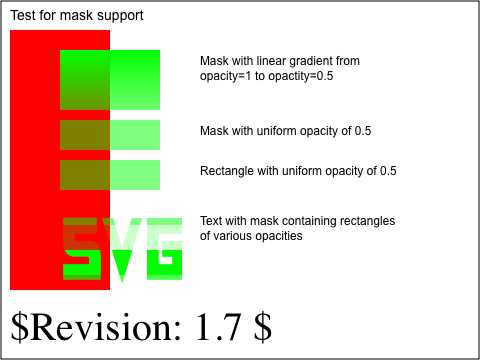
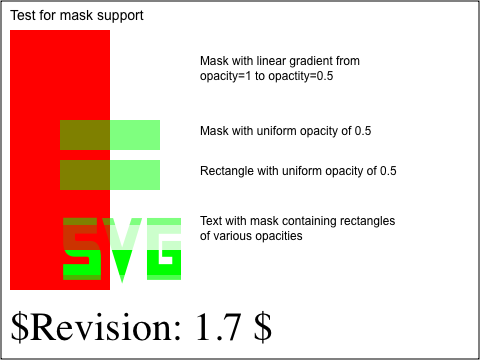
[LBSE] Take transforms into account on mask/clip content https://bugs.webkit.org/show_bug.cgi?id=267075
Reviewed by Nikolas Zimmermann.

Take transforms into account on mask/clip content by adding logic to calculateClipContentRepaintRect
and calculateMaskContentRepaintRect, which is used by LBSE only.

Fix another clip problem related to transforms since for <use> computeClipPath did not take
the transform on the referenced element into account.

Also, clipper uses masks once it is determined masks are needed, and does not switch to clips for referenced clipPaths.

Finally, when resource bounding box for masks is fully outside of the object bounding box )no intersection), use
object bounding box rect as fallback.

* LayoutTests/platform/ios/svg/repaint/clip-path-object-bounding-box-transformed-expected.txt: Added.
* LayoutTests/platform/ios/svg/repaint/mask-object-bounding-box-transformed-expected.txt: Added.
* LayoutTests/platform/mac-sonoma-wk2-lbse-text/TestExpectations:
* LayoutTests/platform/mac-sonoma-wk2-pixel/svg/W3C-SVG-1.1/masking-mask-01-b-expected.png:
* LayoutTests/platform/mac-sonoma-wk2-pixel/svg/W3C-SVG-1.1/masking-path-01-b-expected.png:
* LayoutTests/svg/repaint/clip-path-object-bounding-box-transformed-expected.txt:
* LayoutTests/svg/repaint/clip-path-user-space-on-use-transformed-expected.txt:
* LayoutTests/svg/repaint/mask-object-bounding-box-transformed-expected.txt:
* LayoutTests/svg/repaint/mask-user-space-on-use-transformed-expected.txt:
* Source/WebCore/rendering/svg/RenderSVGModelObject.cpp:
(WebCore::RenderSVGModelObject::computeClipPath const):
[…]

Changed region(s): [[0.125, 0.1222, 0.3438, 0.3056]]

diff --git a/Source/WebCore/svg/SVGClipPathElement.cpp b/Source/WebCore/svg/SVGClipPathElement.cpp
@@ -26,11 +26,13 @@
 #include "Document.h"
 #include "ImageBuffer.h"
 #include "LegacyRenderSVGResourceClipper.h"
+#include "RenderElementInlines.h"
 #include "RenderSVGResourceClipper.h"
 #include "RenderSVGText.h"
 #include "RenderStyleInlines.h"
 #include "SVGElementInlines.h"
 #include "SVGElementTypeHelpers.h"
+#include "SVGLayerTransformComputation.h"
 #include "SVGNames.h"
 #include "SVGUseElement.h"
 #include "StyleResolver.h"
@@ -150,6 +152,20 @@ SVGGraphicsElement* SVGClipPathElement::shouldApplyPathClipping() const
 
 FloatRect SVGClipPathElement::calculateClipContentRepaintRect(RepaintRectCalculation repaintRectCalculation)
 {
+    auto transformationMatrixFromChild = [&](const RenderLayerModelObject& child) -> std::optional<AffineTransform> {
+        if (!document().settings().layerBasedSVGEngineEnabled())
+            return std::nullopt;
+
+        if (!child.isTransformed() || !child.hasLayer())
+            return std::nullopt;
+
+        ASSERT(child.isSVGLayerAwareRenderer());
+        ASSERT(!child.isRenderSVGRoot());
+
+        auto transform = SVGLayerTransformComputation(child).computeAccumulatedTransform(downcast<RenderLayerModelObject>(renderer()), TransformState::TrackSVGCTMMatrix);
+        return transform.isIdentity() ? std::nullopt : std::make_optional(WTFMove(transform));
+    };
+
     FloatRect clipContentRepaintRect;
     // This is a rough heuristic to appraise the clip size and doesn't consider clip on clip.
     for (auto* childNode = firstChild(); childNode; childNode = childNode->nextSibling()) {
@@ -161,7 +177,12 @@ FloatRect SVGClipPathElement::calculateClipContentRepaintRect(RepaintRectCalcula
         auto& style = renderer->style();
         if (style.display() == DisplayType::None || style.visibility() != Visibility::Visible)
             continue;
-        clipContentRepaintRect.unite(renderer->repaintRectInLocalCoordinates(repaintRectCalculation));
+        auto r = renderer->repaintRectInLocalCoordinates(repaintRectCalculation);
+#if ENABLE(LAYER_BASED_SVG_ENGINE)
+        if (auto transform = transformationMatrixFromChild(downcast<RenderLayerModelObject>(*renderer)))
+            r = transform->mapRect(r);
+#endif
+        clipContentRepaintRect.unite(r);
     }
     return clipContentRepaintRect;
 }

diff --git a/Source/WebCore/svg/SVGMaskElement.cpp b/Source/WebCore/svg/SVGMaskElement.cpp
@@ -28,8 +28,10 @@
 
 #include "LegacyRenderSVGResourceMaskerInlines.h"
 #include "NodeName.h"
+#include "RenderElementInlines.h"
 #include "RenderSVGResourceMasker.h"
 #include "SVGElementInlines.h"
+#include "SVGLayerTransformComputation.h"
 #include "SVGNames.h"
 #include "SVGRenderSupport.h"
 #include "SVGStringList.h"
@@ -140,6 +142,19 @@ RenderPtr<RenderElement> SVGMaskElement::createElementRenderer(RenderStyle&& sty
 
 FloatRect SVGMaskElement::calculateMaskContentRepaintRect(RepaintRectCalculation repaintRectCalculation)
 {
+    auto transformationMatrixFromChild = [&](const RenderLayerModelObject& child) -> std::optional<AffineTransform> {
+        if (!document().settings().layerBasedSVGEngineEnabled())
+            return std::nullopt;
+
+        if (!child.isTransformed() || !child.hasLayer())
+            return std::nullopt;
+
+        ASSERT(child.isSVGLayerAwareRenderer());
+        ASSERT(!child.isRenderSVGRoot());
+
+        auto transform = SVGLayerTransformComputation(child).computeAccumulatedTransform(downcast<RenderLayerModelObject>(renderer()), TransformState::TrackSVGCTMMatrix);
+        return transform.isIdentity() ? std::nullopt : std::make_optional(WTFMove(transform));
+    };
     FloatRect maskRepaintRect;
     for (auto* childNode = firstChild(); childNode; childNode = childNode->nextSibling()) {
         auto* renderer = childNode->renderer();
@@ -148,7 +163,12 @@ FloatRect SVGMaskElement::calculateMaskContentRepaintRect(RepaintRectCalculation
         const auto& style = renderer->style();
         if (style.display() == DisplayType::None || style.visibility() != Visibility::Visible)
             continue;
-        maskRepaintRect.unite(renderer->repaintRectInLocalCoordinates(repaintRectCalculation));
+        auto r = renderer->repaintRectInLocalCoordinates(repaintRectCalculation);
+#if ENABLE(LAYER_BASED_SVG_ENGINE)
+        if (auto transform = transformationMatrixFromChild(downcast<RenderLayerModelObject>(*renderer)))
+            r = transform->mapRect(r);
+#endif
+        maskRepaintRect.unite(r);
     }
     return maskRepaintRect;
 }

diff --git a/Source/WebCore/rendering/RenderLayer.cpp b/Source/WebCore/rendering/RenderLayer.cpp
@@ -2841,7 +2841,7 @@ void RenderLayer::paintSVGResourceLayer(GraphicsContext& context, GraphicsContex
     auto* rootPaintingLayer = enclosingSVGRootLayer();
     ASSERT(rootPaintingLayer);
 
-    LayerPaintingInfo paintingInfo(rootPaintingLayer, localPaintDirtyRect, PaintBehavior::Normal, LayoutSize(), 0);
+    LayerPaintingInfo paintingInfo(rootPaintingLayer, localPaintDirtyRect, PaintBehavior::Normal, LayoutSize());
     paintingInfo.clipToDirtyRect = false;
 
     OptionSet<PaintLayerFlag> flags { PaintLayerFlag::TemporaryClipRects };
@@ -3490,7 +3490,8 @@ void RenderLayer::paintLayerByApplyingTransform(GraphicsContext& context, const 
     // Now do a paint with the root layer shifted to be us.
     LayerPaintingInfo transformedPaintingInfo(paintingInfo);
     transformedPaintingInfo.rootLayer = this;
-    transformedPaintingInfo.paintDirtyRect = LayoutRect(encloseRectToDevicePixels(valueOrDefault(transform.inverse()).mapRect(paintingInfo.paintDirtyRect), deviceScaleFactor));
+    if (!transformedPaintingInfo.paintDirtyRect.isInfinite())
+        transformedPaintingInfo.paintDirtyRect = LayoutRect(encloseRectToDevicePixels(valueOrDefault(transform.inverse()).mapRect(paintingInfo.paintDirtyRect), deviceScaleFactor));
     transformedPaintingInfo.subpixelOffset = adjustedSubpixelOffset;
     paintLayerContentsAndReflection(context, transformedPaintingInfo, paintFlags);
 

diff --git a/Source/WebCore/rendering/svg/RenderSVGResourceClipper.cpp b/Source/WebCore/rendering/svg/RenderSVGResourceClipper.cpp
@@ -66,11 +66,6 @@ RenderSVGResourceClipper::RenderSVGResourceClipper(SVGClipPathElement& element, 
 
 RenderSVGResourceClipper::~RenderSVGResourceClipper() = default;
 
-SVGGraphicsElement* RenderSVGResourceClipper::shouldApplyPathClipping() const
-{
-    return clipPathElement().shouldApplyPathClipping();
-}
-
 enum class ClippingMode {
     NoClipping,
     PathClipping,
@@ -92,6 +87,13 @@ static Path& sharedClipAllPath()
         clipAllPath.get().addRect(FloatRect());
     });
     return clipAllPath.get();
+}
+
+SVGGraphicsElement* RenderSVGResourceClipper::shouldApplyPathClipping() const
+{
+    if (currentClippingMode() == ClippingMode::MaskClipping)
+        return nullptr;
+    return clipPathElement().shouldApplyPathClipping();
 }
 
 void RenderSVGResourceClipper::applyPathClipping(GraphicsContext& context, const FloatRect& objectBoundingBox, SVGGraphicsElement& graphicsElement)

diff --git a/Source/WebCore/rendering/svg/RenderSVGModelObject.cpp b/Source/WebCore/rendering/svg/RenderSVGModelObject.cpp
@@ -48,6 +48,7 @@
 #include "SVGNames.h"
 #include "SVGPathData.h"
 #include "SVGResourcesCache.h"
+#include "SVGUseElement.h"
 #include "TransformState.h"
 #include <wtf/IsoMallocInlines.h>
 
@@ -284,6 +285,11 @@ Path RenderSVGModelObject::computeClipPath(AffineTransform& transform) const
 {
     if (layer()->isTransformed())
         transform.multiply(layer()->currentTransform(RenderStyle::individualTransformOperations()).toAffineTransform());
+
+    if (auto* useElement = dynamicDowncast<SVGUseElement>(element())) {
+        if (auto* clipChild = useElement->rendererClipChild())
+            transform.multiply(downcast<RenderLayerModelObject>(*clipChild).checkedLayer()->currentTransform(RenderStyle::individualTransformOperations()).toAffineTransform());
+    }
 
     return pathFromGraphicsElement(downcast<SVGGraphicsElement>(element()));
 }

diff --git a/Source/WebCore/rendering/svg/RenderSVGResourceMasker.cpp b/Source/WebCore/rendering/svg/RenderSVGResourceMasker.cpp
@@ -167,6 +167,8 @@ FloatRect RenderSVGResourceMasker::resourceBoundingBox(const RenderObject& objec
 
     auto maskBoundaries = SVGLengthContext::resolveRectangle<SVGMaskElement>(&maskElement, maskElement.maskUnits(), targetBoundingBox);
     maskRect.intersect(maskBoundaries);
+    if (maskRect.isEmpty())
+        return targetBoundingBox;
     return maskRect;
 }
 
